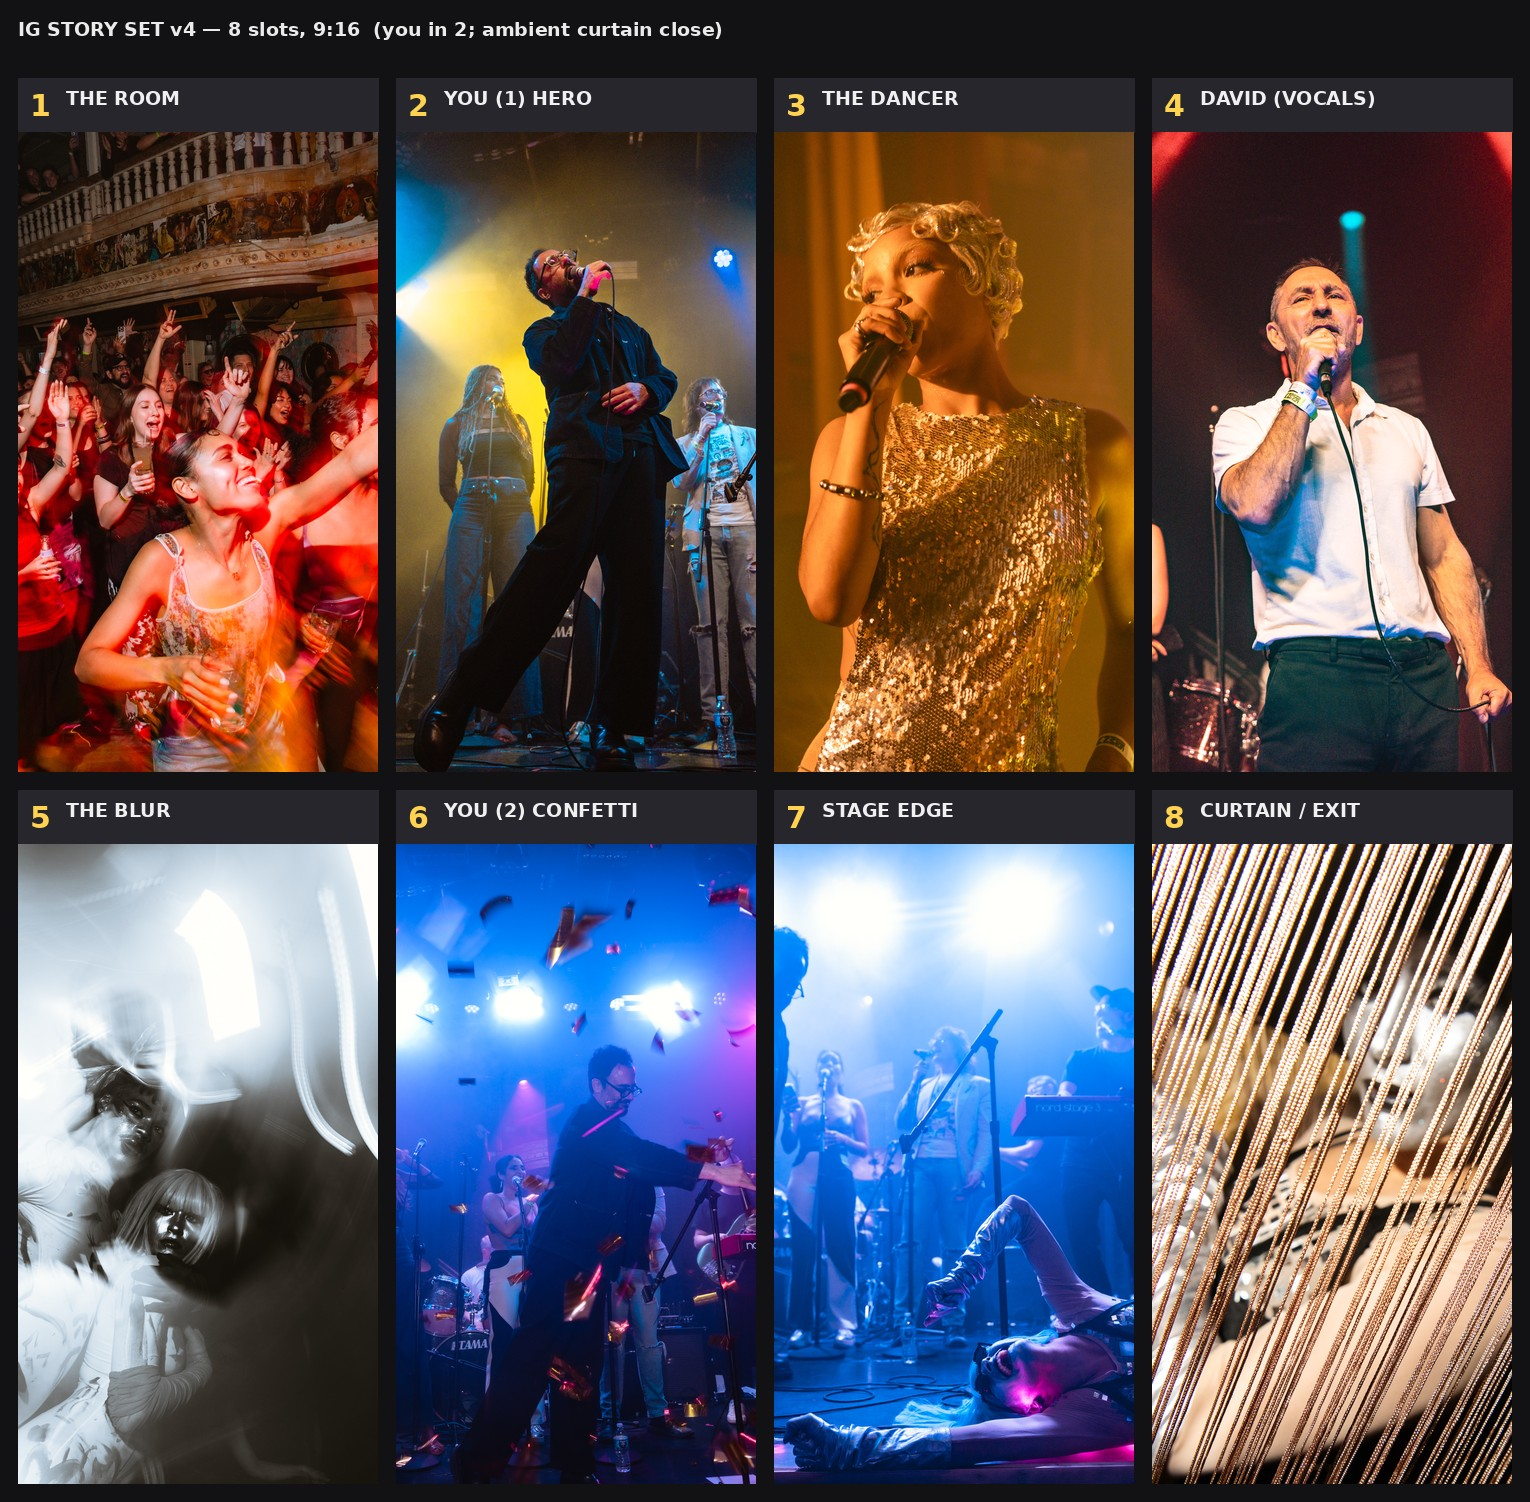
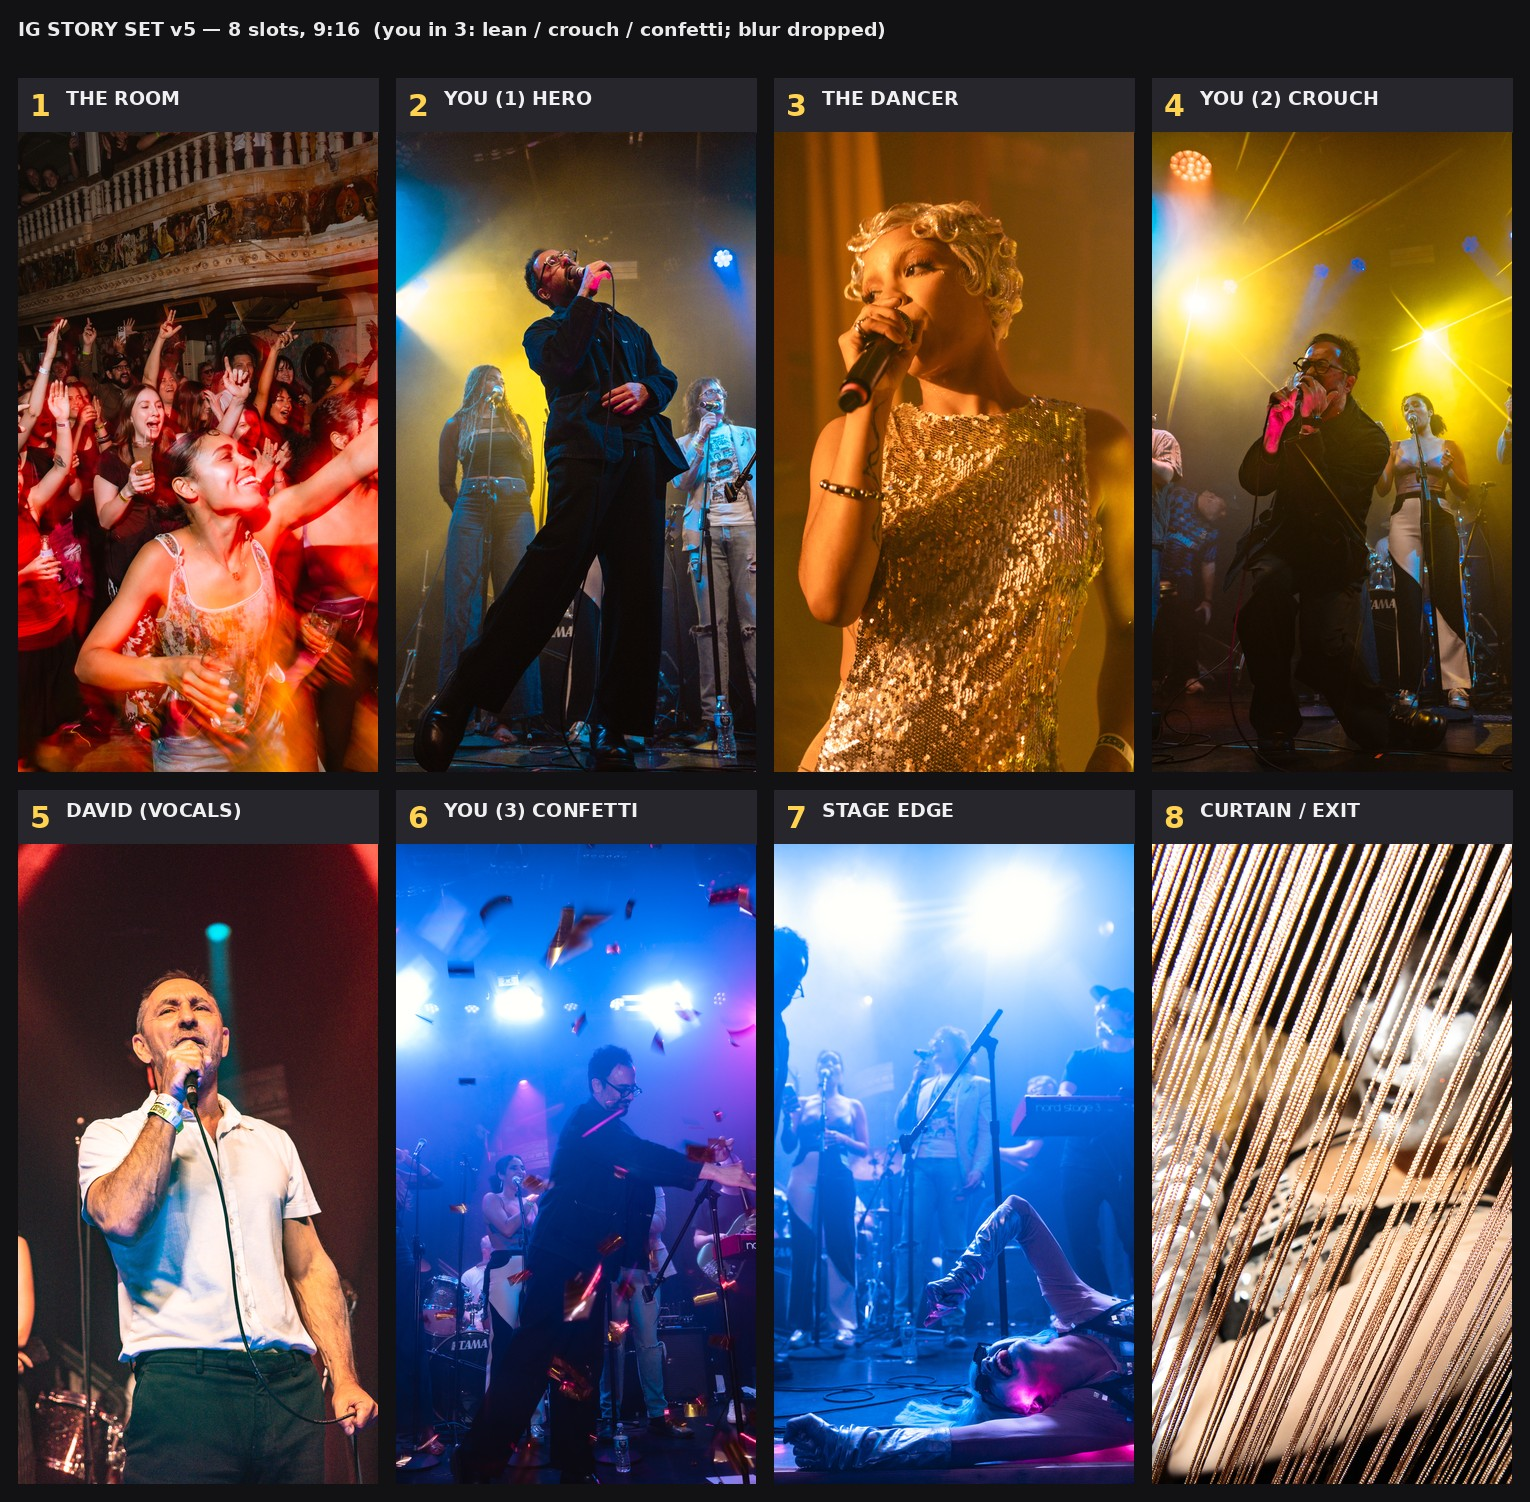
Add crouch shot as third subject frame; drop blur, resequence to 8
https://claude.ai/code/session_01RBCZir1fdKmxRjw93DB8DA

Changed region(s): [[0.7373, 0.0613, 1.0, 0.5206], [0.0, 0.5206, 0.2458, 1.0], [0.3379, 0.0, 0.5837, 0.0306]]

diff --git a/storyboard.py b/storyboard.py
@@ -8,9 +8,9 @@ SHOTS = [
     ("f640f635-suarfotos439.jpeg",          1, "THE ROOM",        0.50, 0.15),  # crowd; keep balcony
     ("95048462-suarfotos526.jpeg",          2, "YOU (1) HERO",    0.50, 0.45),  # USER
     ("0bd1a363-suarfotos395.jpeg",          3, "THE DANCER",      0.50, 0.35),
-    ("3b2c58b3-suarfotos546_1.jpeg",        4, "DAVID (VOCALS)",  0.55, 0.45),
-    ("1e0af547-suarfotos605.jpeg",          5, "THE BLUR",        0.42, 0.45),  # abstract transition
-    ("73354ab7-suarfotos533.jpeg",          6, "YOU (2) CONFETTI",0.46, 0.45),  # USER
+    ("a4680f28-suarfotos525.jpeg",          4, "YOU (2) CROUCH",  0.48, 0.45),  # USER different type
+    ("3b2c58b3-suarfotos546_1.jpeg",        5, "DAVID (VOCALS)",  0.55, 0.45),
+    ("73354ab7-suarfotos533.jpeg",          6, "YOU (3) CONFETTI",0.46, 0.45),  # USER
     ("770b324a-suarfotos523.jpeg",          7, "STAGE EDGE",      0.55, 0.50),  # dancer on the lip
     ("fa970d0b-Droga5_Reunion_6.9.26_pictureplastic__Mark_Minton128.jpeg", 8, "CURTAIN / EXIT", 0.50, 0.45),
 ]
@@ -44,7 +44,7 @@ fbig  = ImageFont.truetype("/usr/share/fonts/truetype/dejavu/DejaVuSans-Bold.ttf
 fnum  = ImageFont.truetype("/usr/share/fonts/truetype/dejavu/DejaVuSans-Bold.ttf", 30)
 flbl  = ImageFont.truetype("/usr/share/fonts/truetype/dejavu/DejaVuSans-Bold.ttf", 19)
 
-d.text((PAD, 18), "IG STORY SET v4 — 8 slots, 9:16  (you in 2; ambient curtain close)",
+d.text((PAD, 18), "IG STORY SET v5 — 8 slots, 9:16  (you in 3: lean / crouch / confetti; blur dropped)",
        font=flbl, fill=(235,235,235))
 
 for i, (fn, num, lbl, hx, vy) in enumerate(SHOTS):

diff --git a/export_stories.py b/export_stories.py
@@ -10,8 +10,8 @@ SHOTS = [
     ("f640f635-suarfotos439.jpeg",          1, "the-room",        0.50, 0.15),
     ("95048462-suarfotos526.jpeg",          2, "you-hero",        0.50, 0.45),
     ("0bd1a363-suarfotos395.jpeg",          3, "the-dancer",      0.50, 0.35),
-    ("3b2c58b3-suarfotos546_1.jpeg",        4, "david-vocals",    0.55, 0.45),
-    ("1e0af547-suarfotos605.jpeg",          5, "the-blur",        0.42, 0.45),
+    ("a4680f28-suarfotos525.jpeg",          4, "you-crouch",      0.48, 0.45),
+    ("3b2c58b3-suarfotos546_1.jpeg",        5, "david-vocals",    0.55, 0.45),
     ("73354ab7-suarfotos533.jpeg",          6, "you-confetti",    0.46, 0.45),
     ("770b324a-suarfotos523.jpeg",          7, "stage-edge",      0.55, 0.50),
     ("fa970d0b-Droga5_Reunion_6.9.26_pictureplastic__Mark_Minton128.jpeg", 8, "curtain-exit", 0.50, 0.45),
